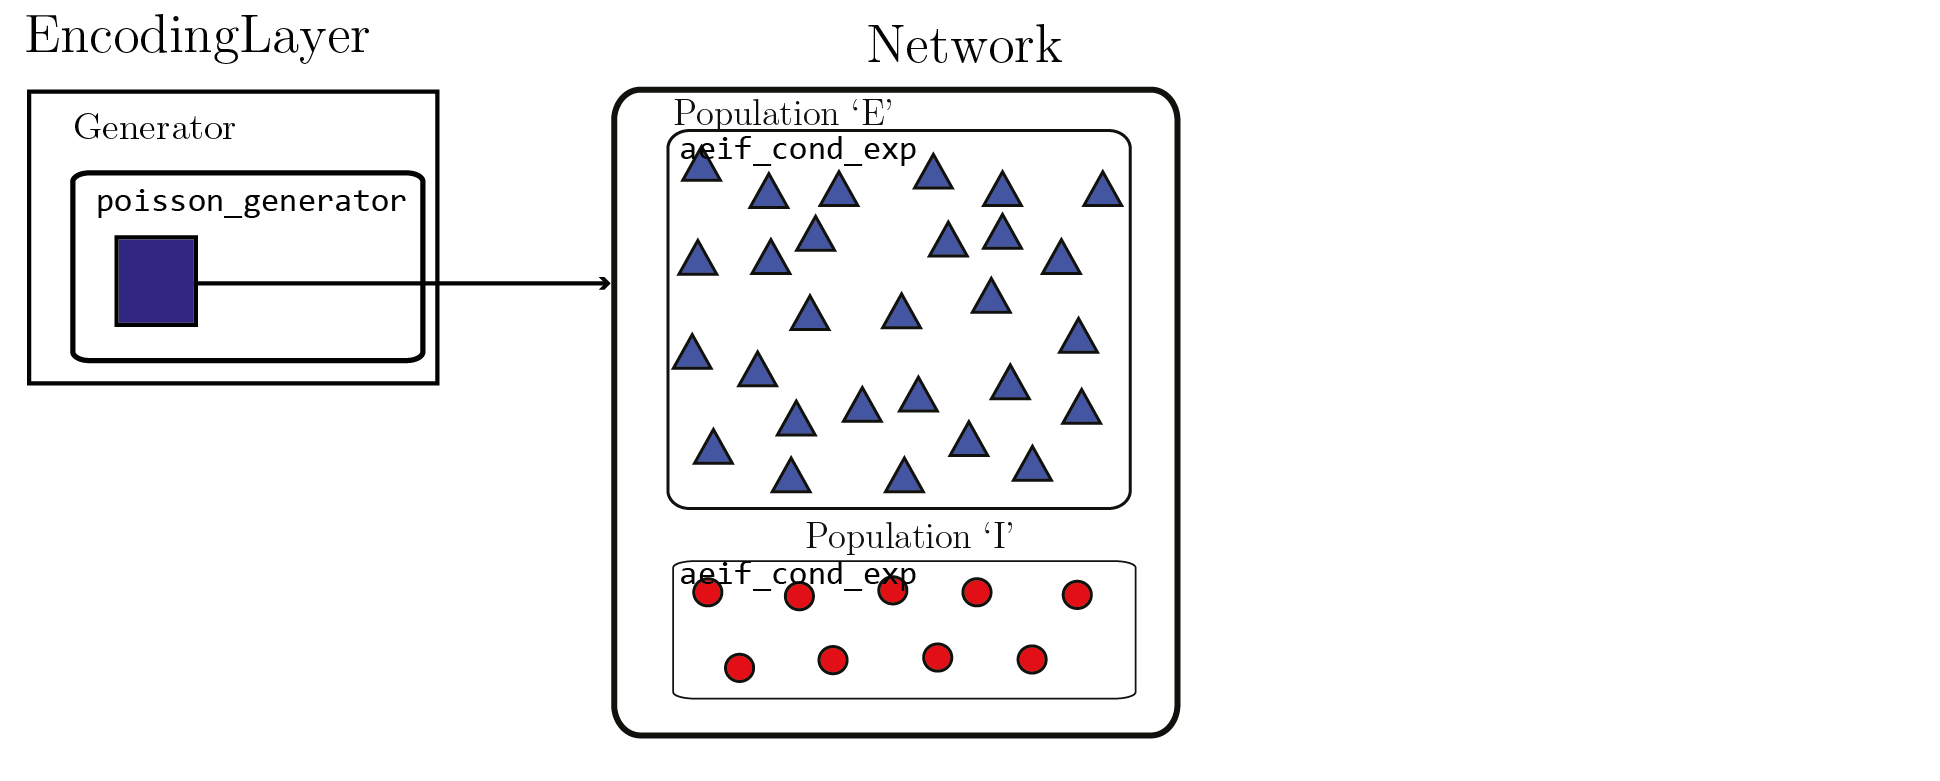
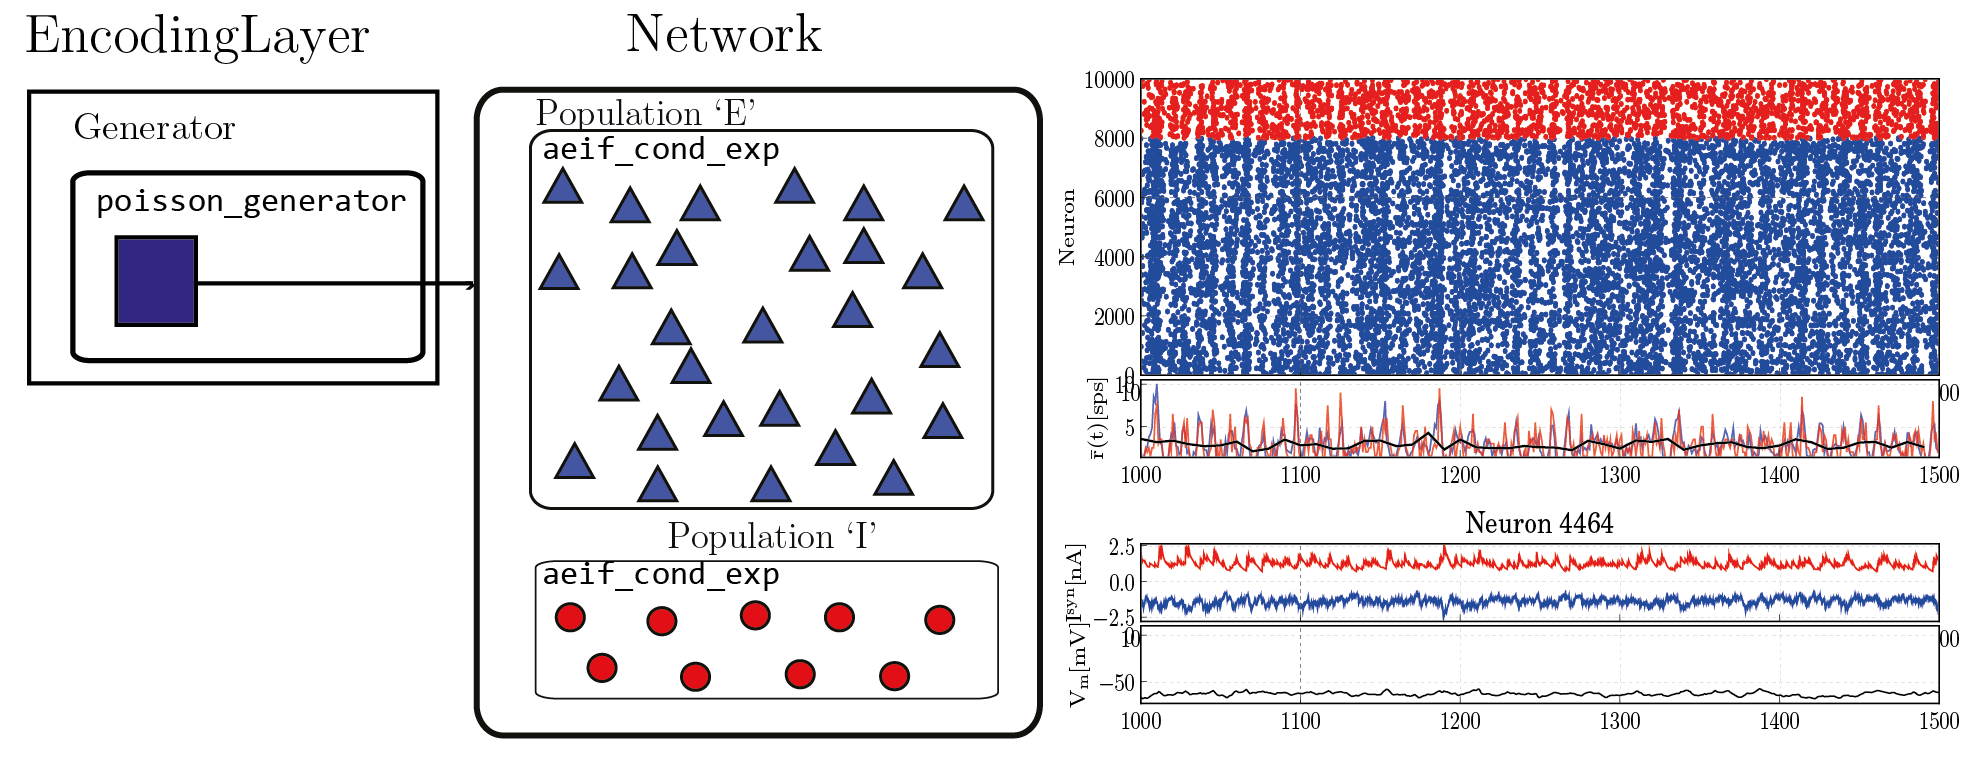
updated documentation

diff --git a/docs/docs/stimulus-processing.md b/docs/docs/stimulus-processing.md
@@ -1,0 +1,17 @@
+This complex example shows the application of the full setup to perform a computational experiment. A random stimulus sequence of length T is constructed and encoded as a sequence of spatiotemporal spike patterns (each stimulus is converted into a fixed set of Poissonian spike trains - "frozen noise"). These input spikes are delivered to the main network (a standard balanced network) via spike generators. The simulation runs in steps, iterating through the input sequence and gathering samples of the chosen population state variable, at stimulus offset (default). After the simulation is completed, the population state in response to the input is compiled in an NxT state matrix, a subset of which is used to train a set of linear readouts, using ridge regression. The remaining subset is used to test the readout accuracy. In this setup, we use 10 parallel readouts, whose target outputs are delayed copies of the input sequence (i.e. we measure the ability to use the system state in response to stimulus n to determine whether it contains information about stimulus history: n-1, n-2, ...).
+
+The complete setup and illustrative results are provided below:
+![alt-text](/images/example4-01.png)
+
+
+To run this example execute:
+
+```python
+python main.py -f ./projects/examples/parameters/spike_pattern_input.py -c stimulus_processing --extra plot=True display=False save=True
+```
+
+If all goes well, the simulation should run and a detailed output is provided, summarizing what is being done. After completion, since `save=True`, all the relevant data and results stored in the output folder, including a copy of the original parameters file, a figure similar to that below (main result), the stimulus set used and the state matrices. Additionally, the console output should show the key results. 
+
+![alt-text](/images/example4-02.png)
+
+You can retrieve the data using the provided `stimulus_processing_task` in `examples/read_data/`.

diff --git a/docs/docs/balanced-random-network.md b/docs/docs/balanced-random-network.md
@@ -1,0 +1,12 @@
+In this simple example, we perform a very simple and common experiment: determining the responses
+of a single neuron to injected current at different amplitudes. The specific setup is illustrated below
+
+![alt-text](/images/example3-01.png)
+
+In this simple setup, one single generator, a `’step_current_generator’` is used and a single neuron composes the whole network.
+
+To run this example execute:
+
+```python
+python main.py -f projects/examples/parameters/noise_driven_dynamics.py -c population_noisedriven --extra plot=True display=True save=True
+```

diff --git a/docs/docs/single-neuron-fi-curve.md b/docs/docs/single-neuron-fi-curve.md
@@ -10,3 +10,5 @@ To run this example execute:
 ```python
 python main.py -f projects/examples/parameters/single_neuron_fI.py -c single_neuron_fIcurve --extra plot=True display=True save=True
 ```
+
+(...)
